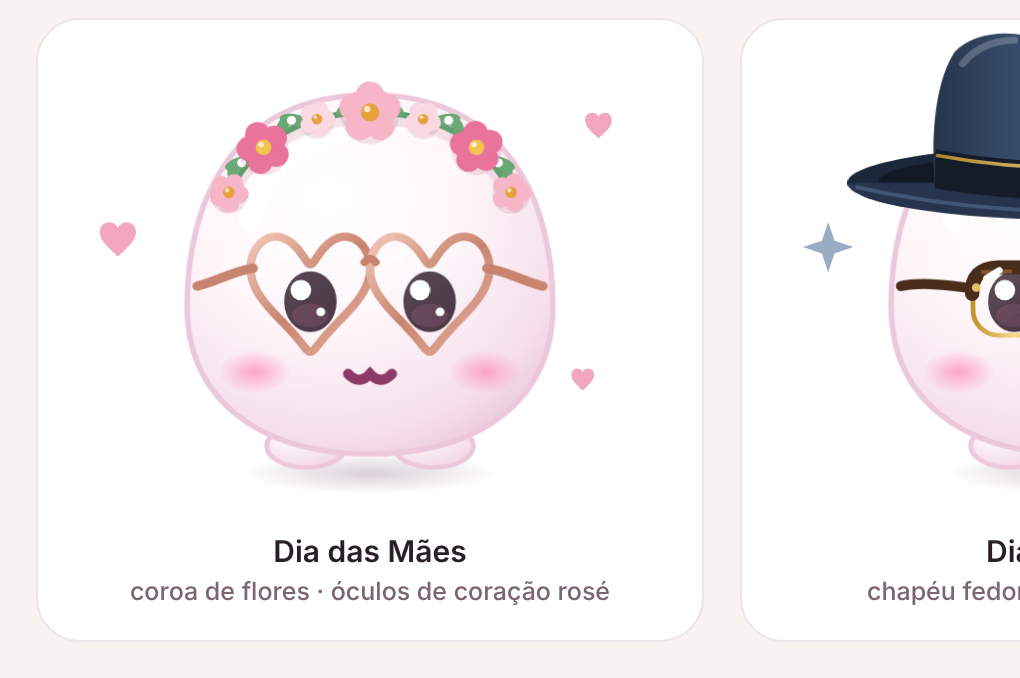
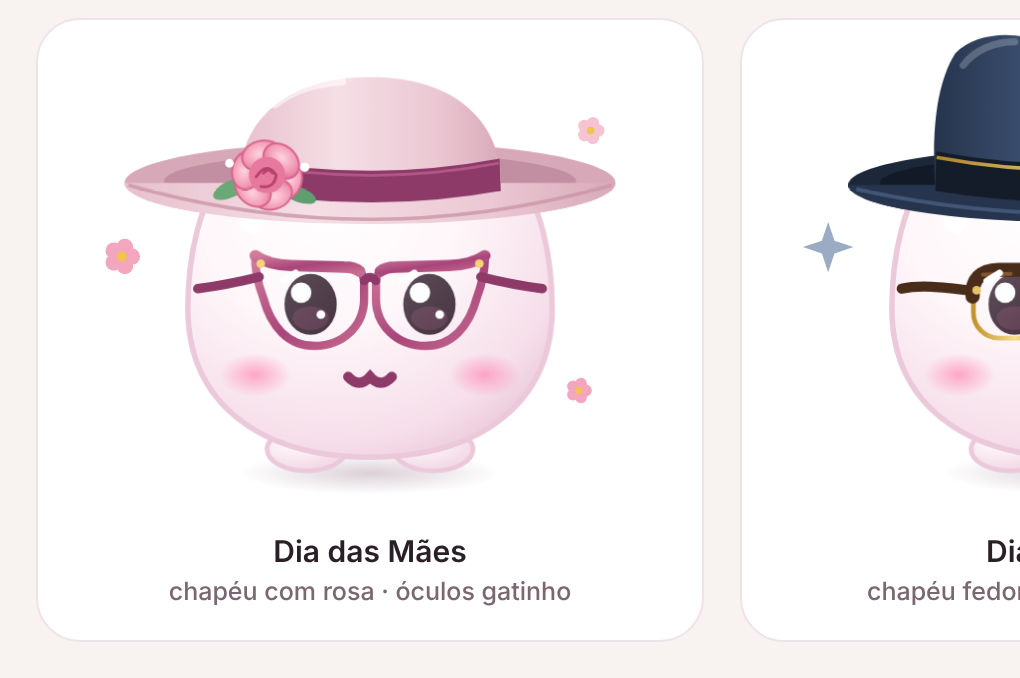
Esboço S135c (Mães: chapéu com rosa e óculos gatinho)
Claude-Session: https://claude.ai/code/session_01Vj5GPR2QjandaFr6ascRKC

diff --git a/work/s135/maes2.js b/work/s135/maes2.js
@@ -1,0 +1,27 @@
+(function(){
+const mir=d=>d.replace(/(-?\d+\.?\d*) (-?\d+\.?\d*)/g,(m,x,y)=>(120-x).toFixed(2).replace(/\.?0+$/,'')+' '+y);
+// óculos gatinho
+const LL='M58.5 77.5 C58.5 74.6 56.8 73.6 53.4 73.5 L40 73.1 C36.4 73 33.6 72.4 31 70.6 C30.9 73.6 31.6 77.4 33 81.2 C35 88.8 39.4 93.6 46 93.6 C53.2 93.6 58.5 88.4 58.5 81.6 Z';
+const TL='M57.4 74.6 C56.4 73.7 55 73.5 53.4 73.5 L40 73.1 C36.4 73 33.6 72.4 31 70.6';
+const D='<defs><linearGradient id="lftcat" x1="0" y1="0" x2="1" y2="1"><stop offset="0" stop-color="#d27c9d"/><stop offset=".55" stop-color="#a8467a"/><stop offset="1" stop-color="#c86b91"/></linearGradient><radialGradient id="lftrose" cx="45%" cy="40%" r="65%"><stop offset="0" stop-color="#ffd3df"/><stop offset=".6" stop-color="#f29ab5"/><stop offset="1" stop-color="#d9668e"/></radialGradient><linearGradient id="lfthat" x1="0" y1="0" x2="1" y2="0"><stop offset="0" stop-color="#e7c1cd"/><stop offset=".38" stop-color="#f6dfe6"/><stop offset=".75" stop-color="#ebc8d3"/><stop offset="1" stop-color="#d9aab9"/></linearGradient></defs>';
+const ocl=D+`<path class="lfcL" d="${LL}" fill="url(#lfmlz)" stroke="url(#lftcat)" stroke-width="2.1" stroke-linejoin="round"/><path d="${mir(LL)}" fill="url(#lfmlz)" stroke="url(#lftcat)" stroke-width="2.1" stroke-linejoin="round"/>`+
+ `<path d="${TL}" stroke="url(#lftcat)" stroke-width="2.9" fill="none" stroke-linecap="round"/><path d="${mir(TL)}" stroke="url(#lftcat)" stroke-width="2.9" fill="none" stroke-linecap="round"/>`+
+ `<path d="M58.5 77 Q60 75.2 61.5 77" stroke="#8d3a69" stroke-width="2.2" fill="none" stroke-linecap="round"/>`+
+ `<path d="M32 76 C26 77.5 21 78.4 16.5 79" fill="none" stroke="#8d3a69" stroke-width="2.4" stroke-linecap="round"/><path d="M88 76 C94 77.5 99 78.4 103.5 79" fill="none" stroke="#8d3a69" stroke-width="2.4" stroke-linecap="round"/>`+
+ `<circle cx="32.4" cy="72.6" r="1.1" fill="#f3d27a"/><circle cx="87.6" cy="72.6" r="1.1" fill="#f3d27a"/>`+
+ '<path d="M38 77 l3.2 -2 M68 77 l3.2 -2" stroke="#fff" stroke-width="1.7" stroke-linecap="round"/>';
+// rosa
+function rosa(x,y,r){let p='';
+ for(let i=0;i<6;i++){const a=i*60+15,rad=a*Math.PI/180;const cx=x+Math.cos(rad)*r*.55,cy=y+Math.sin(rad)*r*.55;p+=`<ellipse cx="${cx.toFixed(2)}" cy="${cy.toFixed(2)}" rx="${(r*.55).toFixed(2)}" ry="${(r*.42).toFixed(2)}" transform="rotate(${a+90} ${cx.toFixed(2)} ${cy.toFixed(2)})" fill="url(#lftrose)" stroke="#d9668e" stroke-width=".5"/>`}
+ p+=`<circle cx="${x}" cy="${y}" r="${(r*.5).toFixed(2)}" fill="#e8799e"/>`;
+ p+=`<path d="M${x-r*.3} ${y+r*.05} q${r*.3} ${-r*.45} ${r*.55} ${-r*.05} q${-r*.05} ${r*.38} ${-r*.42} ${r*.32} M${x-r*.1} ${y-r*.05} q${r*.15} ${-r*.18} ${r*.25} 0" stroke="#b9426d" stroke-width=".7" fill="none" stroke-linecap="round"/>`;
+ return p}
+const fr=D+'<path d="M-2 52 A62 10.5 0 0 0 122 52 Z" fill="url(#lfthat)"/><path d="M-1 52.6 Q60 70 121 52.6" stroke="#c995a7" stroke-width=".9" fill="none" opacity=".8"/>'+
+ '<path d="M27 54 C26 38 37 25 60 25 C83 25 94 38 93 54 Q60 60 27 54Z" fill="url(#lfthat)"/><path d="M36 32 C41 28 47 26.5 53 26.2" stroke="#fff" stroke-width="2" opacity=".55" fill="none" stroke-linecap="round"/>'+
+ '<path d="M27.3 45.8 Q60 52 92.7 45.8 L93 54 Q60 60 27 54Z" fill="#8d3a69"/><path d="M27.5 47 Q60 53.2 92.5 47" stroke="#b25887" stroke-width=".7" fill="none"/>'+
+ '<ellipse cx="25" cy="53.5" rx="5" ry="2.1" transform="rotate(-25 25 53.5)" fill="#6aa877"/><ellipse cx="42" cy="55" rx="4.6" ry="1.9" transform="rotate(20 42 55)" fill="#5f9e6e"/>'+
+ rosa(34,50,9.2)+'<g fill="#fff"><circle cx="43.5" cy="48" r="1.2"/><circle cx="24.5" cy="47" r="1.1"/></g>';
+const flor=(x,y,r,c)=>{let p='';for(let i=0;i<5;i++){const a=i*72*Math.PI/180;p+=`<circle cx="${(x+Math.cos(a)*r*.6).toFixed(2)}" cy="${(y+Math.sin(a)*r*.6).toFixed(2)}" r="${(r*.5).toFixed(2)}"/>`}return `<g fill="${c}">${p}</g><circle cx="${x}" cy="${y}" r="${r*.3}" fill="#f3c34f"/>`};
+TEMA_M.maes={corte:"M-40 53.5 L160 53.5 L160 200 L-40 200 Z",tr:'<ellipse cx="60" cy="52" rx="62" ry="10.5" fill="#d7a9b8"/><ellipse cx="60" cy="51.6" rx="52" ry="7.4" fill="#c18fa1"/>',fr:fr,ocl:ocl,
+ fundo:flor(-3,70,4.2,'#f2a7bf')+flor(116,38,3.2,'#f6c3d3')+flor(113,104,3,'#f2a7bf')};
+})();

diff --git a/work/s135/p.html b/work/s135/p.html
@@ -1,5 +1,5 @@
 <!doctype html><meta charset="utf-8"><style>body{margin:0;background:#f8f2f0;font:600 15px Inter,system-ui;color:#2a1f27}.w{display:flex;gap:18px;padding:18px;flex-wrap:wrap}.c{width:300px;background:#fff;border:1px solid #efe3ea;border-radius:22px;padding:16px;text-align:center}.m{width:260px;height:240px;margin:0 auto;position:relative}.m .mochi{width:100%;height:100%}.c small{display:block;font-weight:500;color:#7a6772;margin-top:4px}</style>
-<div class="w" id="w"></div><script src="base.js"></script><script src="novos.js"></script><script src="maes.js"></script><script>
+<div class="w" id="w"></div><script src="base.js"></script><script src="novos.js"></script><script src="maes2.js"></script><script>
 const st=document.createElement('style');st.textContent=MOCHI_CSS;document.head.appendChild(st);
-[['x','Normal','sem tema'],['natal','Natal (hoje)','referência'],['maes','Dia das Mães','coroa de flores · óculos de coração rosé'],['pais','Dia dos Pais','chapéu fedora · óculos clubmaster']].forEach(([k,t,d])=>{document.documentElement.setAttribute('data-ev',k);const c=document.createElement('div');c.className='c';c.innerHTML='<div class="m"><div class="mochi">'+temaSvg(MOCHI_SVG).replace(/lftcc/g,'lftcc'+k)+'</div></div>'+t+'<small>'+d+'</small>';w.appendChild(c)});
+[['x','Normal','sem tema'],['natal','Natal (hoje)','referência'],['maes','Dia das Mães','chapéu com rosa · óculos gatinho'],['pais','Dia dos Pais','chapéu fedora · óculos clubmaster']].forEach(([k,t,d])=>{document.documentElement.setAttribute('data-ev',k);const c=document.createElement('div');c.className='c';c.innerHTML='<div class="m"><div class="mochi">'+temaSvg(MOCHI_SVG).replace(/lftcc/g,'lftcc'+k)+'</div></div>'+t+'<small>'+d+'</small>';w.appendChild(c)});
 </script>

diff --git a/docs/MEMORIA-PROJETO.md b/docs/MEMORIA-PROJETO.md
@@ -1614,3 +1614,4 @@ Decisões do dono sobre a tela Venda confirmada (esboço "venda_confirmada_compr
 - 11/11 02:57 DONO: S134 "perfeito" = APROVADO (não implementar ainda). Próximo tópico: Mochi de Dia das Mães e Dia dos Pais (esboço).
 - 11/11 03:10 ESBOÇO S135 (work/s135/S135.png; novos.js = TEMA_M.maes e TEMA_M.pais no mesmo formato corte/tr/fr/ocl/fundo do S107): Dia das Mães = coroa de flores rosa (sem chapéu, cabeça inteira; espelho e faixa somem como nos outros temas) + óculos de coração rosé + coraçõezinhos no fundo; Dia dos Pais = chapéu fedora azul-marinho com fita dourada e pena + óculos clubmaster (tartaruga em cima, aro dourado) + estrelinhas azul-acinzentadas. Aguardando.
 - 11/11 03:02 DONO S135: coroa "não parece devidamente encaixada" e o óculos de coração "batendo no olho" → pediu ajustes no Dia das Mães. 03:20 ESBOÇO S135b (work/s135/S135b.png, maes.js + geo.json): coroa agora segue o contorno da cabeça (4,5 unidades para dentro, com sombrinha embaixo para assentar), flores maiores no topo e menores nas laterais; corações calculados para o olho caber com folga (nenhum ponto do olho encosta no aro), lóbulos se encostam no meio formando a ponte. Pais sem mudança. Aguardando.
+- 11/11 03:11 DONO: Mães → chapéu com uma flor; óculos de coração grande demais e coração é tema de NAMORADOS (não usar no Dia das Mães); quer óculos GATINHO (mães gostam). ESBOÇO S135c (work/s135/S135c.png, maes2.js): chapéu de aba larga rosé com fita vinho (#8d3a69) e uma rosa com folhas à esquerda; óculos gatinho do tamanho do óculos normal, aro rosé-vinho com pontinha dourada nos cantos, o olho cabe inteiro (testado: 0 ponto do olho fora da lente); florzinhas no fundo. Pais sem mudança. Aguardando.
